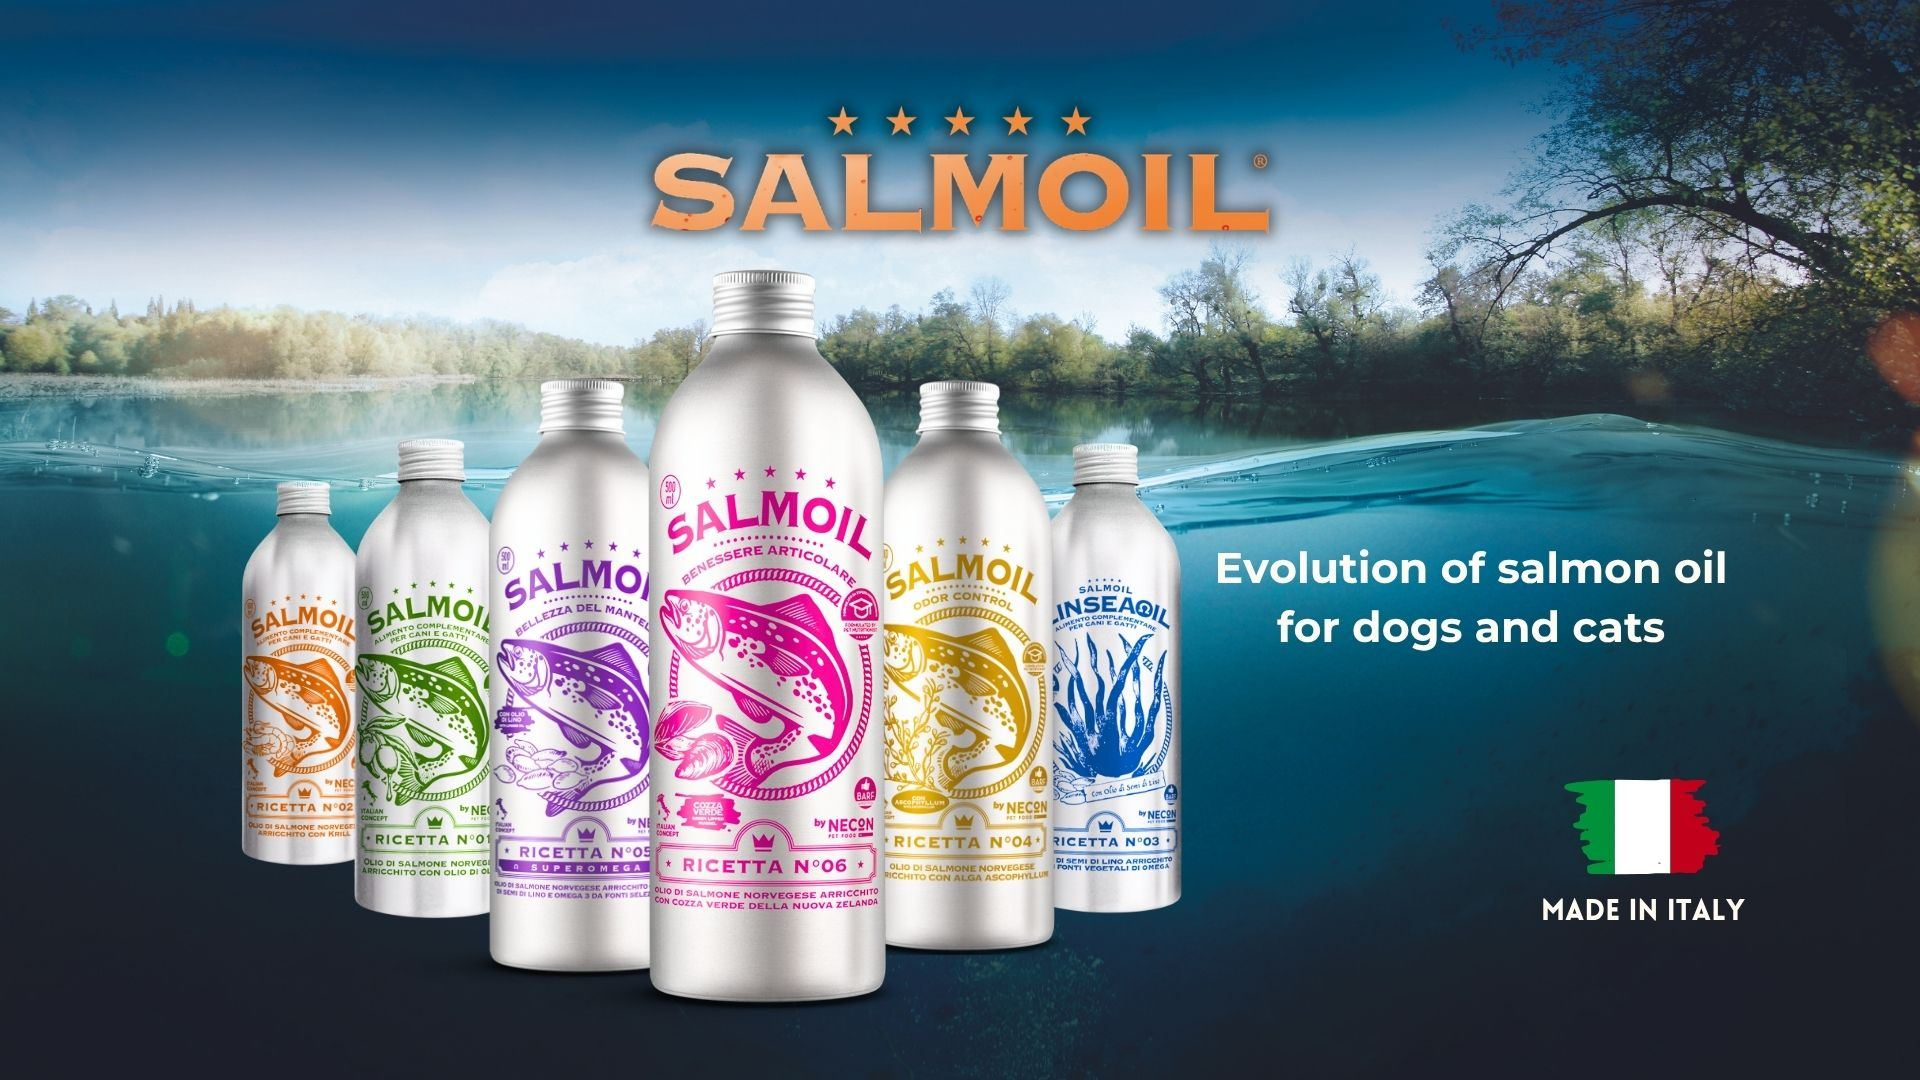
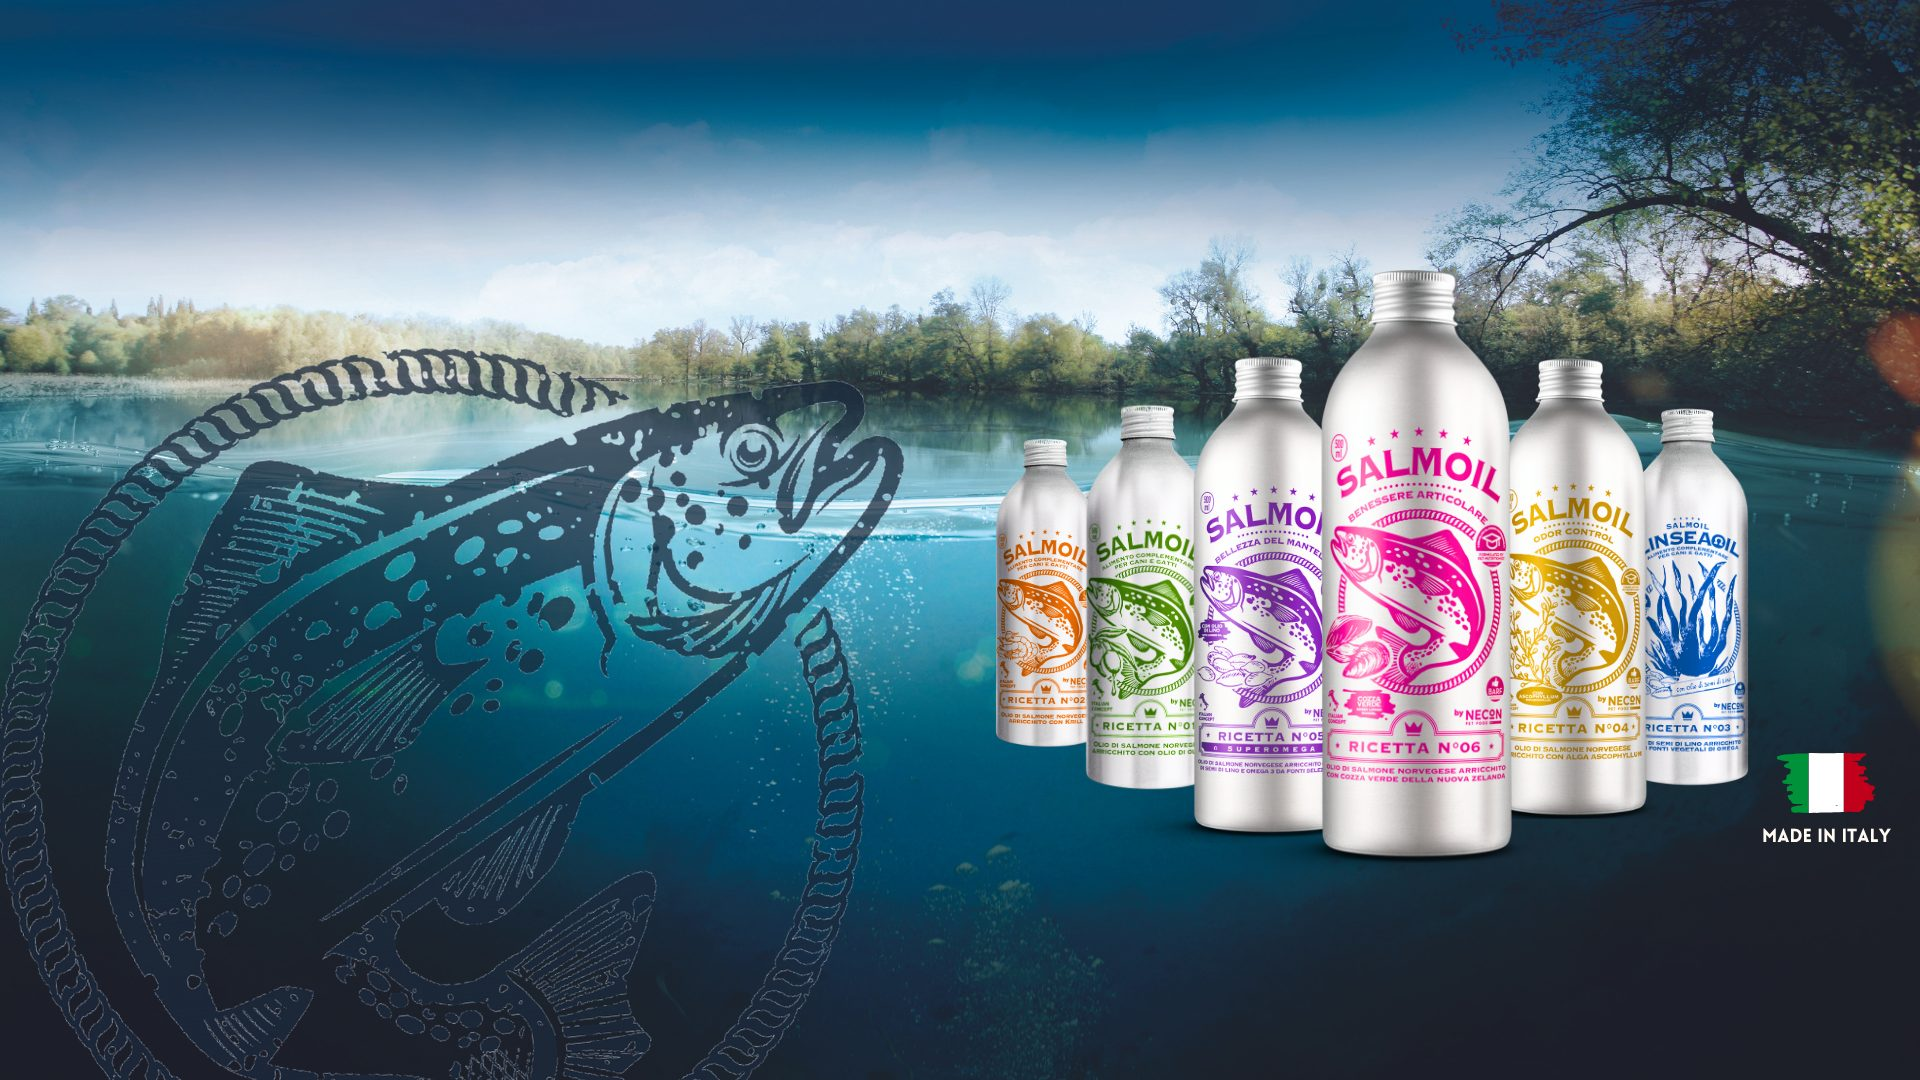
Remove wave divider on brand pages, update Salmoil hero image

diff --git a/app/brands/[slug]/page.js b/app/brands/[slug]/page.js
@@ -56,11 +56,6 @@ export default async function BrandPage({ params }) {
         </div>
       </section>
 
-      <div className="section-curve" style={{ background: 'var(--navy)', position: 'relative', overflow: 'hidden' }}>
-        {heroPhoto && <img src={heroPhoto} alt="" className="subhero-bg-photo" style={{ objectPosition: 'bottom' }} />}
-        <svg viewBox="0 0 1440 90" preserveAspectRatio="none"><path fill="var(--ivory)" d="M0,40 C300,90 600,0 900,35 C1150,63 1300,20 1440,45 L1440,90 L0,90 Z" /></svg>
-      </div>
-
       {logo && (
         <section className="brand-stage">
           <div className="wrap brand-stage-grid">
